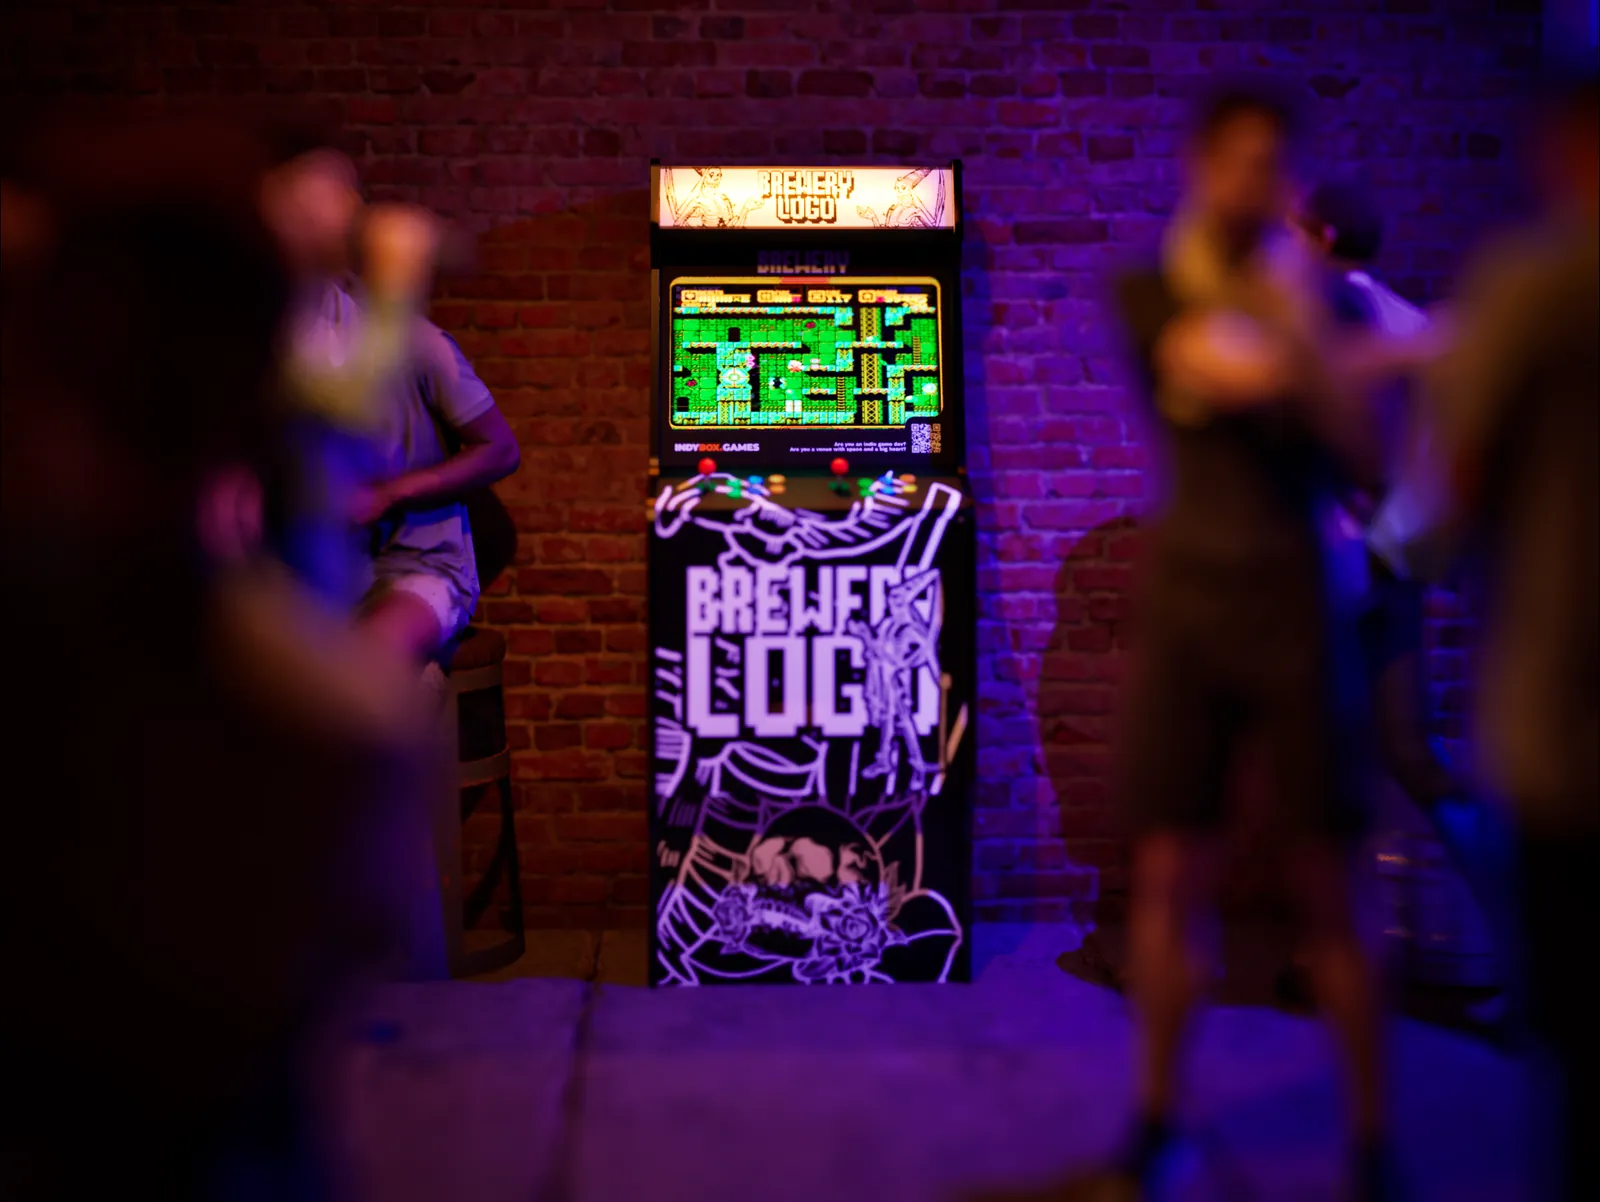
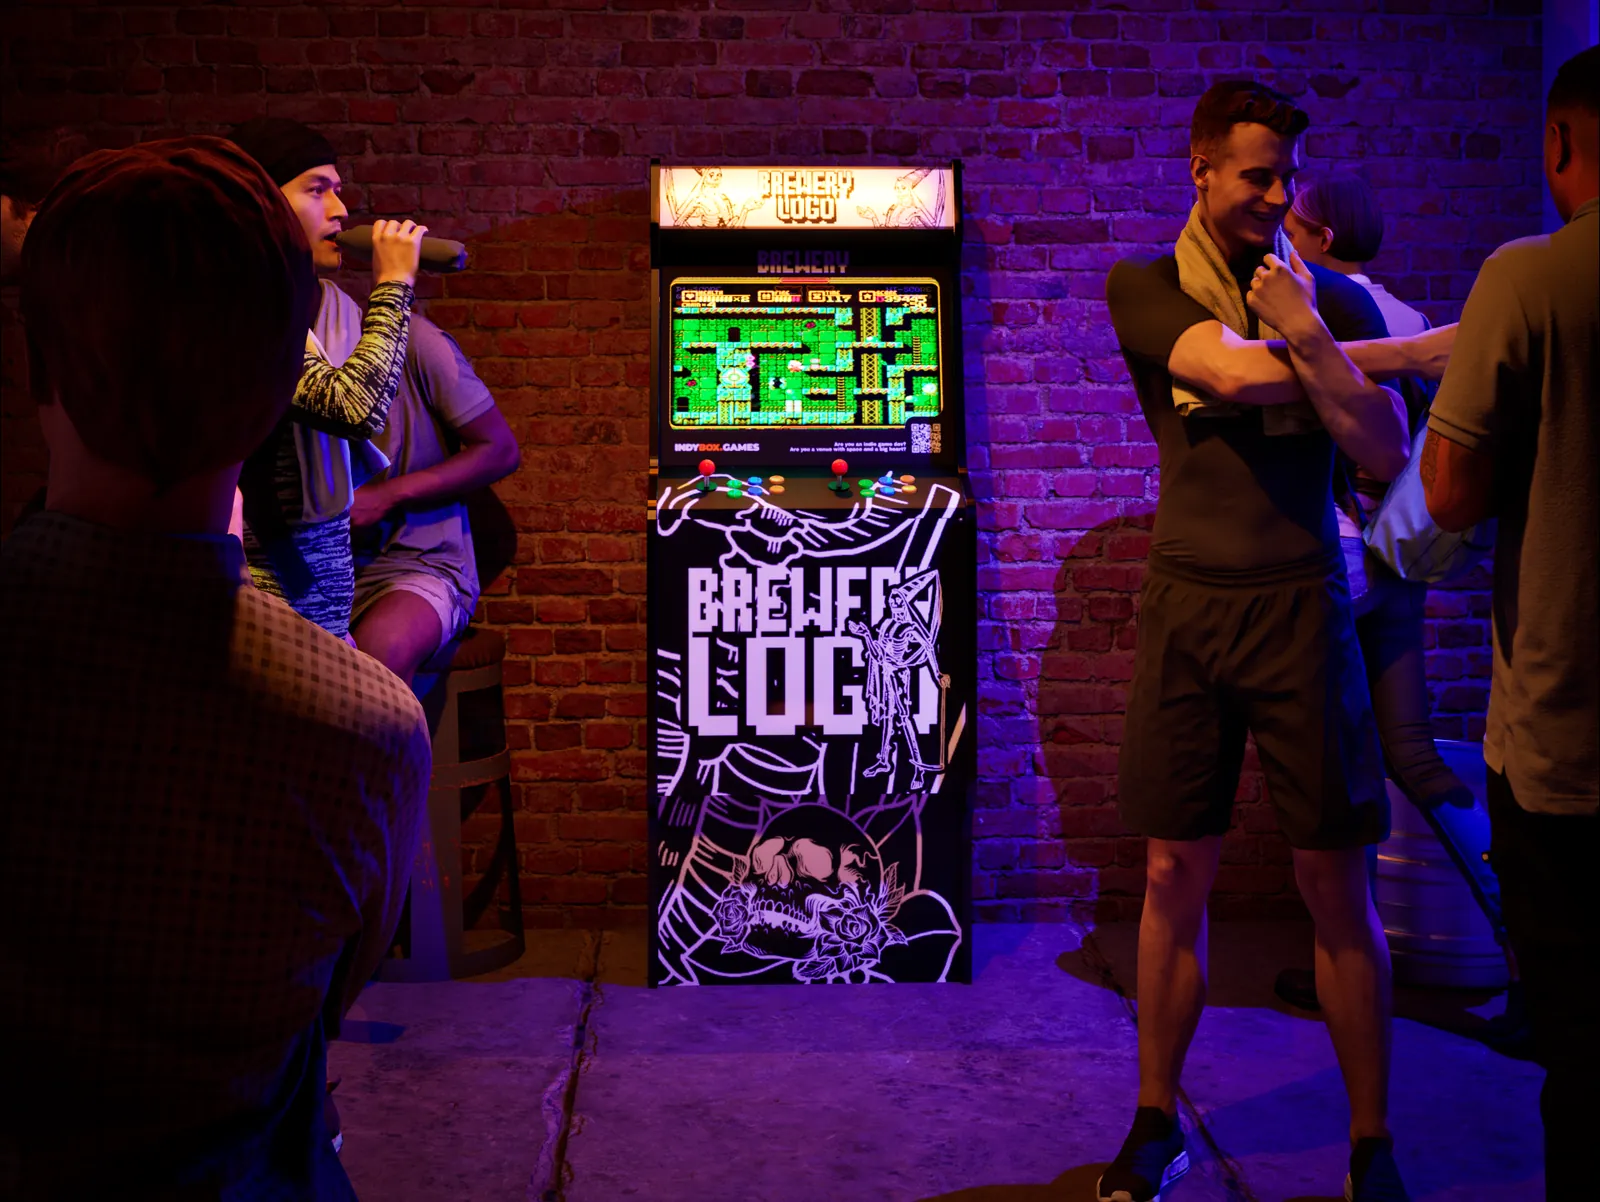
Design critique fixes: clear primary CTAs, devs layout, at-home teaser, stronger section tints, sharp gallery photo, Menu label, tighter hero, crisper text shadow
Claude-Session: https://claude.ai/code/session_01G1ucLrMbuPWt4HdHkzrX8K

diff --git a/index.html b/index.html
@@ -178,7 +178,8 @@ section > h2::before { right: 100%; background: radial-gradient(circle at 0 100%
 section > h2::after { left: 100%; background: radial-gradient(circle at 100% 100%, transparent 21px, #000 22px); }
 @media (max-width: 600px) { section > h2 { padding: 12px 28px 10px; } }
 /* Each section window also gets a wash of colour picked from the photo (purples and yellows). --tint-a is how strong it is. */
-section { --tint-a: 0.10; }
+section { --tint-a: 0.20; }
+#story .body p:first-child { font-size: clamp(1.5rem, 2.6vw, 2rem); line-height: 1.2; }
 #story { --tint: 123, 63, 228; }
 #venues { --tint: 255, 196, 40; }
 #devs { --tint: 90, 80, 255; }
@@ -187,7 +188,7 @@ section { --tint-a: 0.10; }
 section::before { content: ""; position: absolute; z-index: -1; inset: 0; border-radius: var(--wr); background: linear-gradient(rgba(var(--tint), var(--tint-a)), rgba(var(--tint), var(--tint-a))), linear-gradient(rgba(0,0,0,0.32), rgba(0,0,0,0.44)); }
 section { display: flex; flex-direction: column; align-items: center; text-align: center; gap: 18px; margin-top: 40px; padding-block: 44px 52px; scroll-margin-top: 64px; }
 main { margin-top: calc(-1 * var(--ov)); }
-.hero { margin-top: 0; padding-block: calc(140px + var(--h1fs) + var(--ov)) clamp(140px, 13vw, 195px); }
+.hero { margin-top: 0; padding-block: calc(140px + var(--h1fs) + var(--ov)) clamp(100px, 9vw, 135px); }
 /* Desktop: the first window starts under the thin black strip, so the logo box overlaps its top-left corner */
 @media (min-width: 901px) { :root { --ov: 82px; } }
 section > h2 { position: relative; z-index: 3; min-width: 0; margin: -44px 0 14px; padding: 16px 44px 14px; background: #000; border-radius: 0 0 26px 26px; font-family: 'Rubik', 'Arial Black', Impact, sans-serif; font-style: italic; font-weight: 900; text-transform: uppercase; font-size: clamp(1.9rem, 8vw, 3.2rem); letter-spacing: 0; line-height: 1.05; }
@@ -196,12 +197,14 @@ section > h2 { position: relative; z-index: 3; min-width: 0; margin: -44px 0 14p
 .art { flex: 0 0 auto; display: block; }
 .art img { display: block; width: 100%; height: auto; filter: drop-shadow(5px 5px 0 #000); }
 .row .body { text-align: left; }
-#devs .row .body { text-align: right; }
-#devs .actions { justify-content: flex-end; }
 #venues .facts li { text-align: left; }
 .art-cab { width: clamp(200px, 24vw, 280px); }
 .art-pc { width: clamp(260px, 32vw, 400px); }
-@media (max-width: 760px) { .row { flex-direction: column; gap: 24px; } .row .body, #devs .row .body, #venues .facts li { text-align: center; } #devs .actions { justify-content: center; } .art-cab { width: min(58vw, 230px); } .art-pc { width: min(78vw, 340px); } }
+.art-photo { width: clamp(280px, 40vw, 520px); }
+.art-photo img { border-radius: 15px; filter: none; box-shadow: 0 10px 30px rgba(0,0,0,.45); }
+#at-home .row .body, #devs .row .body { text-align: left; }
+#at-home .actions, #devs .actions { justify-content: flex-start; }
+@media (max-width: 760px) { .row { flex-direction: column; gap: 24px; } .row .body, #devs .row .body, #venues .facts li { text-align: center; } #devs .actions { justify-content: center; } .art-cab { width: min(58vw, 230px); } .art-pc { width: min(78vw, 340px); } .art-photo { width: min(88vw, 420px); } #at-home .row .body, #devs .row .body { text-align: center; } #at-home .actions, #devs .actions { justify-content: center; } }
 .concept { margin: 20px 0 0; width: 100%; max-width: 1100px; }
 .concept img { display: block; width: 100%; height: auto; border-radius: 15px; border: 1px solid var(--line); box-shadow: 5px 5px 0 #000; }
 .concept figcaption { margin-top: 14px; font-family: var(--pixel); font-size: 1.4rem; letter-spacing: .03em; color: var(--muted); }
@@ -248,6 +251,12 @@ ul.facts li:last-child { border-bottom: 1px solid var(--line); }
   color: var(--fg); background: transparent; border: 1px solid var(--fg); padding: 11px 18px; cursor: pointer;
 }
 .btn:hover { background: var(--fg); color: var(--bg); }
+.btn.primary { background: #ff8a14; border-color: #ff8a14; color: #000; text-shadow: none; font-size: 1.5rem; padding: 12px 26px; }
+.btn.primary:hover { background: #ffa646; border-color: #ffa646; color: #000; }
+@media (max-width: 600px) { .btn.primary { font-size: 1.3rem; padding: 11px 18px; } }
+.btn.ghost { border-color: transparent; text-decoration: underline; text-underline-offset: 5px; text-decoration-thickness: 1px; padding-inline: 10px; }
+.btn.ghost:hover { background: transparent; color: var(--accent); }
+.btn:focus-visible { outline: 2px solid var(--accent); outline-offset: 3px; }
 
 footer a:hover { color: var(--accent); }
 footer p { margin: 0; }
@@ -258,7 +267,7 @@ footer { margin: 0 -20px; padding: 48px 40px 40px; background: #000; display: fl
 html{background:#000}body{margin:0}img{max-width:100%}[hidden]{display:none!important}
 @media (prefers-reduced-motion: reduce) { nav a { transform: none !important; } }
 /* Soft black glow behind body text so it stays readable over the photo */
-.intro p, section h2, section p, ul.facts li, .email, footer { text-shadow: 0 0 5px rgba(0,0,0,.9), 0 0 16px rgba(0,0,0,.7); }
+.intro p, section h2, section p, ul.facts li, .email, footer { text-shadow: 0 1px 2px rgba(0,0,0,.85), 0 0 14px rgba(0,0,0,.45); }
 </style>
 <link rel="icon" href="favicon.svg" type="image/svg+xml">
 <link rel="icon" href="favicon.ico" sizes="48x48">
@@ -272,7 +281,7 @@ html{background:#000}body{margin:0}img{max-width:100%}[hidden]{display:none!impo
     <div class="brand">
     <a class="mark" href="#top" aria-label="Indybox home"><img src="images/indybox-logo-bold.png" alt="indyBox" width="720" height="121"></a>
     </div>
-    <button class="burger" id="burger" type="button" aria-label="Menu" aria-expanded="false" aria-controls="menu"><svg class='burger-ico' viewBox='0 0 84 60' width='52' height='37' aria-hidden='true'><defs><linearGradient id='abBase' x1='0' y1='0' x2='0' y2='1'><stop offset='0' stop-color='#ff8fcf'/><stop offset='1' stop-color='#d13d96'/></linearGradient><linearGradient id='abSide' x1='0' y1='0' x2='0' y2='1'><stop offset='0' stop-color='#a02a74'/><stop offset='1' stop-color='#661a4b'/></linearGradient><linearGradient id='abCap' x1='0' y1='0' x2='0' y2='1'><stop offset='0' stop-color='#ffb0dd'/><stop offset='1' stop-color='#e04aa6'/></linearGradient><clipPath id='abClip'><path d='M0 0H84V28H71A29 19 0 0 1 13 28H0Z'/></clipPath></defs><path d='M4 28v6a38 24 0 0 0 76 0v-6z' fill='url(#abSide)'/><ellipse cx='42' cy='28' rx='38' ry='24' fill='url(#abBase)'/><ellipse cx='42' cy='28' rx='29' ry='19' fill='#3a0f2e'/><g clip-path='url(#abClip)'><g class='cap'><path d='M16 20v8a26 14 0 0 0 52 0v-8z' fill='url(#abSide)'/><ellipse cx='42' cy='20' rx='26' ry='14' fill='url(#abCap)'/><ellipse cx='42' cy='20.5' rx='20' ry='10' fill='none' stroke='#661a4b' stroke-opacity='.4' stroke-width='1'/><ellipse cx='31' cy='14' rx='11' ry='3.4' fill='#fff' fill-opacity='.32' transform='rotate(-10 31 14)'/></g></g></svg></button>
+    <button class="burger" id="burger" type="button" aria-label="Menu" aria-expanded="false" aria-controls="menu"><span class="burger-label">Menu</span><svg class='burger-ico' viewBox='0 0 84 60' width='52' height='37' aria-hidden='true'><defs><linearGradient id='abBase' x1='0' y1='0' x2='0' y2='1'><stop offset='0' stop-color='#ff8fcf'/><stop offset='1' stop-color='#d13d96'/></linearGradient><linearGradient id='abSide' x1='0' y1='0' x2='0' y2='1'><stop offset='0' stop-color='#a02a74'/><stop offset='1' stop-color='#661a4b'/></linearGradient><linearGradient id='abCap' x1='0' y1='0' x2='0' y2='1'><stop offset='0' stop-color='#ffb0dd'/><stop offset='1' stop-color='#e04aa6'/></linearGradient><clipPath id='abClip'><path d='M0 0H84V28H71A29 19 0 0 1 13 28H0Z'/></clipPath></defs><path d='M4 28v6a38 24 0 0 0 76 0v-6z' fill='url(#abSide)'/><ellipse cx='42' cy='28' rx='38' ry='24' fill='url(#abBase)'/><ellipse cx='42' cy='28' rx='29' ry='19' fill='#3a0f2e'/><g clip-path='url(#abClip)'><g class='cap'><path d='M16 20v8a26 14 0 0 0 52 0v-8z' fill='url(#abSide)'/><ellipse cx='42' cy='20' rx='26' ry='14' fill='url(#abCap)'/><ellipse cx='42' cy='20.5' rx='20' ry='10' fill='none' stroke='#661a4b' stroke-opacity='.4' stroke-width='1'/><ellipse cx='31' cy='14' rx='11' ry='3.4' fill='#fff' fill-opacity='.32' transform='rotate(-10 31 14)'/></g></g></svg></button>
     <nav id="menu" aria-label="Sections">
       <a href="#story">Story</a>
       <a href="#venues">Venues</a>
@@ -315,7 +324,7 @@ html{background:#000}body{margin:0}img{max-width:100%}[hidden]{display:none!impo
       </div>
       </div>
       <div class="gallery" aria-label="Cabinet renders">
-<button type="button" class="g-item g-wide" data-i="0" data-full="images/gallery/2.webp?v=4" data-cap="Players gather round the cabinet"><img src="images/gallery/2-t.webp?v=4" width="800" height="601" alt="Customers standing around an Indybox cabinet" loading="lazy"></button>
+<button type="button" class="g-item g-wide" data-i="0" data-full="images/gallery/2.webp?v=5" data-cap="Players gather round the cabinet"><img src="images/gallery/2-t.webp?v=5" width="800" height="601" alt="Customers standing around an Indybox cabinet" loading="lazy"></button>
 <button type="button" class="g-item" data-i="1" data-full="images/gallery/1.webp?v=4" data-cap="Wrapped for a brewery, in the taproom"><img src="images/gallery/1-t.webp?v=4" width="800" height="601" alt="An Indybox cabinet in a brick-walled taproom" loading="lazy"></button>
 <button type="button" class="g-item" data-i="2" data-full="images/gallery/3.webp?v=4" data-cap="The backlit marquee carries the brewery's logo"><img src="images/gallery/3-t.webp?v=4" width="800" height="601" alt="Close-up of the cabinet's lit marquee" loading="lazy"></button>
 <button type="button" class="g-item" data-i="3" data-full="images/gallery/4.webp?v=4" data-cap="Screen and controls"><img src="images/gallery/4-t.webp?v=4" width="800" height="601" alt="Close-up of the screen and joysticks" loading="lazy"></button>
@@ -335,29 +344,31 @@ html{background:#000}body{margin:0}img{max-width:100%}[hidden]{display:none!impo
     <section id="devs">
       <h2>For devs</h2>
       <div class="row">
+      <picture class="art art-pc"><img src="images/retro-pc.webp" width="900" height="850" alt="A retro beige PC running an indie game" loading="lazy"></picture>
       <div class="body">
         <p>Make games? We want yours on the cabinets. Players find them in pubs and taprooms, with no store page to scroll past and nothing to download.</p>
         <p>We agree licensing with you before any game goes on a cabinet, and you decide whether it stays. Email us a link and a line about your game.</p>
         <p><b>Join the community.</b> Indybox is a growing group of indie developers whose games get played in real venues. Join to hear when new cabinets go live, get your game in the rotation, and meet other devs doing the same.</p>
         <div class="actions">
-          <a class="btn" id="joinbtn" href="#contact">Join the community</a>
-          <a class="btn" href="https://www.instagram.com/indyboxgames/" target="_blank" rel="noopener">Instagram</a>
+          <a class="btn primary" id="joinbtn" href="#contact">Join the community</a>
+          <a class="btn ghost" href="https://www.instagram.com/indyboxgames/" target="_blank" rel="noopener">Instagram</a>
         </div>
       </div>
-      <picture class="art art-pc"><img src="images/retro-pc.webp" width="900" height="850" alt="A retro beige PC running an indie game" loading="lazy"></picture>
       </div>
     </section>
 
     <section id="at-home">
       <h2>At home</h2>
+      <div class="row">
       <div class="body">
         <p>Want one for the games room? Choose the look and the games. We build the cabinet and print the graphics ourselves in East London.</p>
         <p>Tell us what you have in mind and we will tell you what is possible.</p>
+        <div class="actions">
+          <a class="btn primary" id="homebtn" href="#contact">Tell us what you want</a>
+        </div>
       </div>
-      <figure class="concept">
-        <img src="images/customiser.webp" width="1440" height="900" alt="Concept screen of a cabinet builder: pick a part of the cabinet, then choose its finish and artwork" loading="lazy">
-        <figcaption>Concept: pick a part, choose a finish and artwork, and request a quote.</figcaption>
-      </figure>
+      <picture class="art art-photo"><img src="images/gallery/4-t.webp?v=4" width="800" height="601" alt="Close-up of the cabinet's screen and joysticks" loading="lazy"></picture>
+      </div>
     </section>
 
     <section id="enquire">
@@ -365,8 +376,8 @@ html{background:#000}body{margin:0}img{max-width:100%}[hidden]{display:none!impo
       <div class="body">
         <p>Pubs, bars, breweries, or just you with a spare corner. Drop us a line at the address at the bottom of this page, or find us on Instagram.</p>
         <div class="actions">
-          <a class="btn" id="mailbtn" href="#contact">Email us</a>
-          <a class="btn" href="https://www.instagram.com/indyboxgames/" target="_blank" rel="noopener">Instagram</a>
+          <a class="btn primary" id="mailbtn" href="#contact">Email us</a>
+          <a class="btn ghost" href="https://www.instagram.com/indyboxgames/" target="_blank" rel="noopener">Instagram</a>
         </div>
       </div>
     </section>
@@ -463,6 +474,8 @@ html{background:#000}body{margin:0}img{max-width:100%}[hidden]{display:none!impo
   }
   var btn = document.getElementById('mailbtn');
   if (btn) btn.addEventListener('click', function (e) { e.preventDefault(); window.location.href = 'mailto:' + email; });
+  var hbtn = document.getElementById('homebtn');
+  if (hbtn) hbtn.addEventListener('click', function (e) { e.preventDefault(); window.location.href = 'mailto:' + email + '?subject=' + encodeURIComponent('A cabinet for home'); });
   var jbtn = document.getElementById('joinbtn');
   if (jbtn) jbtn.addEventListener('click', function (e) { e.preventDefault(); window.location.href = 'mailto:' + email + '?subject=' + encodeURIComponent('Joining the Indybox community') + '&body=' + encodeURIComponent('Hi, I make games and I would like to join the Indybox community.\n\nMy game: \nLink: \n'); });
 })();
